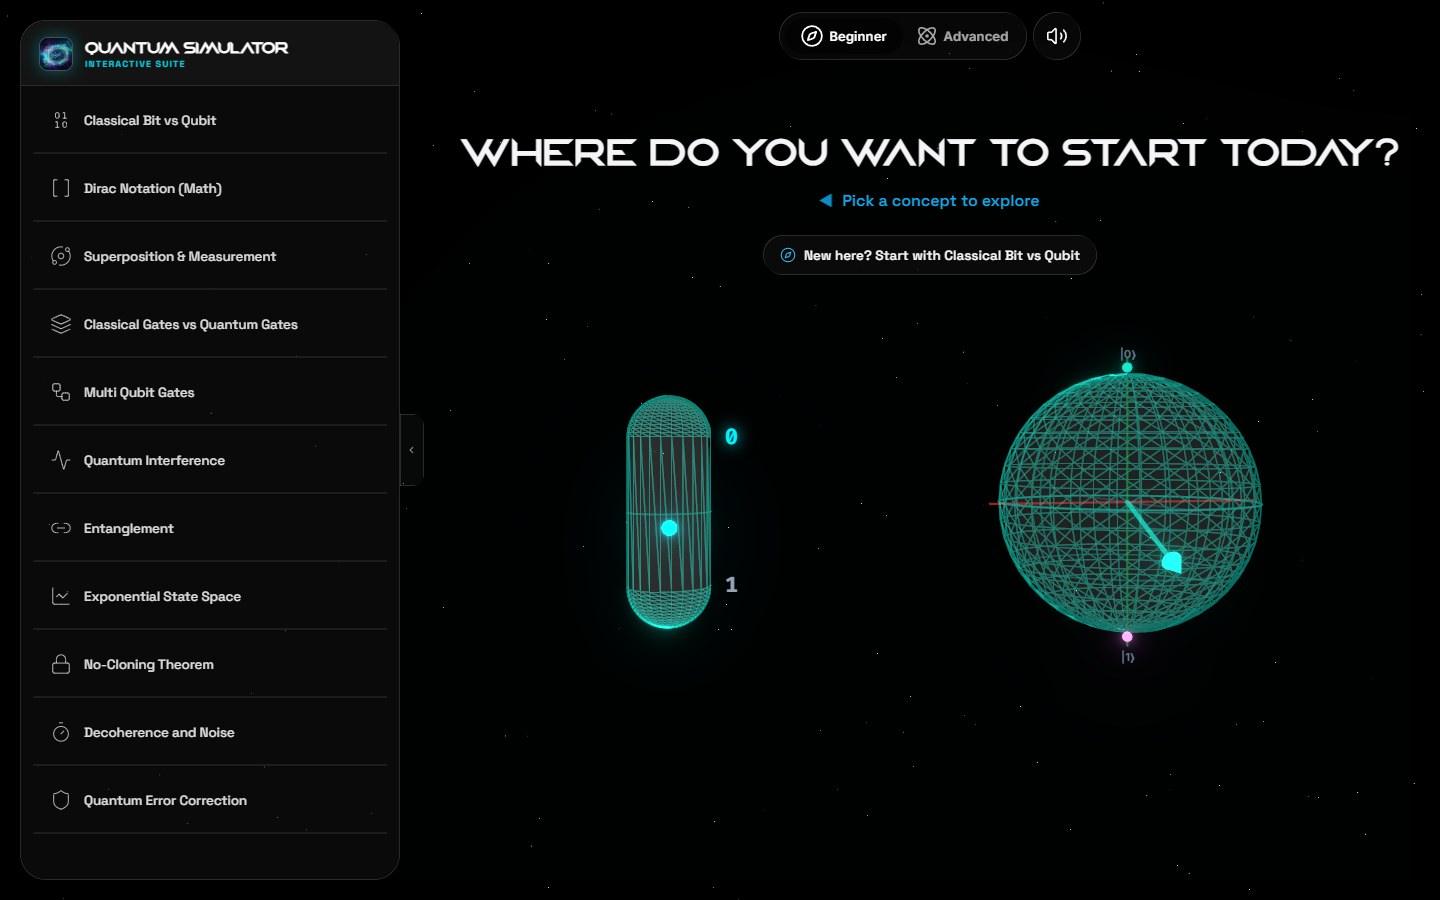
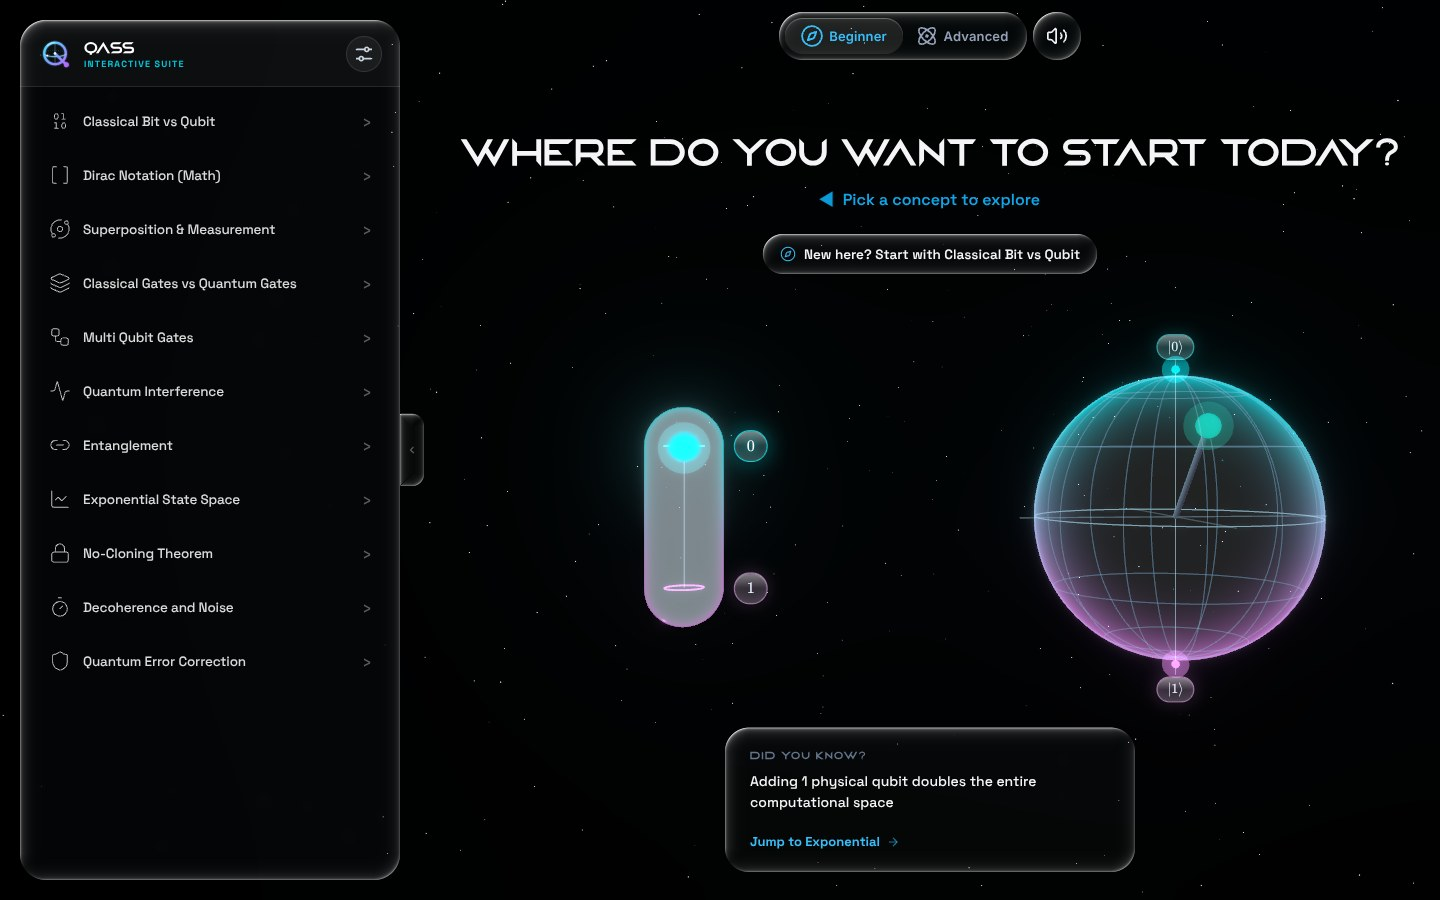
Fresh README screenshots, and a script that recaptures them
The seven screenshots in docs/screenshots still showed the app from
early October: the old "Quantum Simulator" branding, wireframe spheres
and no QASS logo. They are recaptured from the current production build
at High quality (the glass and the full glow), 1440 x 900, each at the
moment its README caption describes.

scripts/capture-screenshots.mjs (npm run screenshots) produced them and
can again: it serves the build with Vite's preview server and drives
headless Chromium. On a software renderer the scenes run at a few
frames a second, so it waits on what each scene shows (the gate card
fitted in the window, the superposed vector on the equator) rather than
fixed times, and captures the turning Exponential ring under paused
virtual time so its labels' glass doesn't trail them.

Claude-Session: https://claude.ai/code/session_01JucikGsAFCEcbhQm11dsNe

diff --git a/README.md b/README.md
@@ -68,6 +68,7 @@ The app opens at <http://localhost:3000>. Other scripts:
 | `npm test` | Runs the unit tests (Vitest) |
 | `npm run test:e2e` | Builds the app and opens every module in headless Chromium (Playwright), once more at High quality to run the WebGL glass; run `npx playwright install chromium` once first |
 | `npm run lint` | Lints the source (ESLint, fails on any warning) |
+| `npm run screenshots` | Builds the app and recaptures this README's screenshots (`docs/screenshots`) at High quality in headless Chromium |
 
 The simulator is designed for desktop and tablet screens. On narrow windows (under 768 px) it shows a message asking you to use a larger screen.
 
@@ -100,6 +101,7 @@ The simulator is designed for desktop and tablet screens. On narrow windows (und
 | `src/LiquidGlass.js`, `src/glassLens.js`, `src/GlassNavBar.jsx` | The Liquid Glass material, its lens filter and the floating tab bar |
 | `src/liquid-glass/` | The Liquid Glass skill's material, used by the sidebar and the top bar |
 | `e2e/` | Browser smoke tests (Playwright) |
+| `scripts/capture-screenshots.mjs` | Recaptures the screenshots in `docs/screenshots` (`npm run screenshots`) |
 
 ### The Liquid Glass material
 
